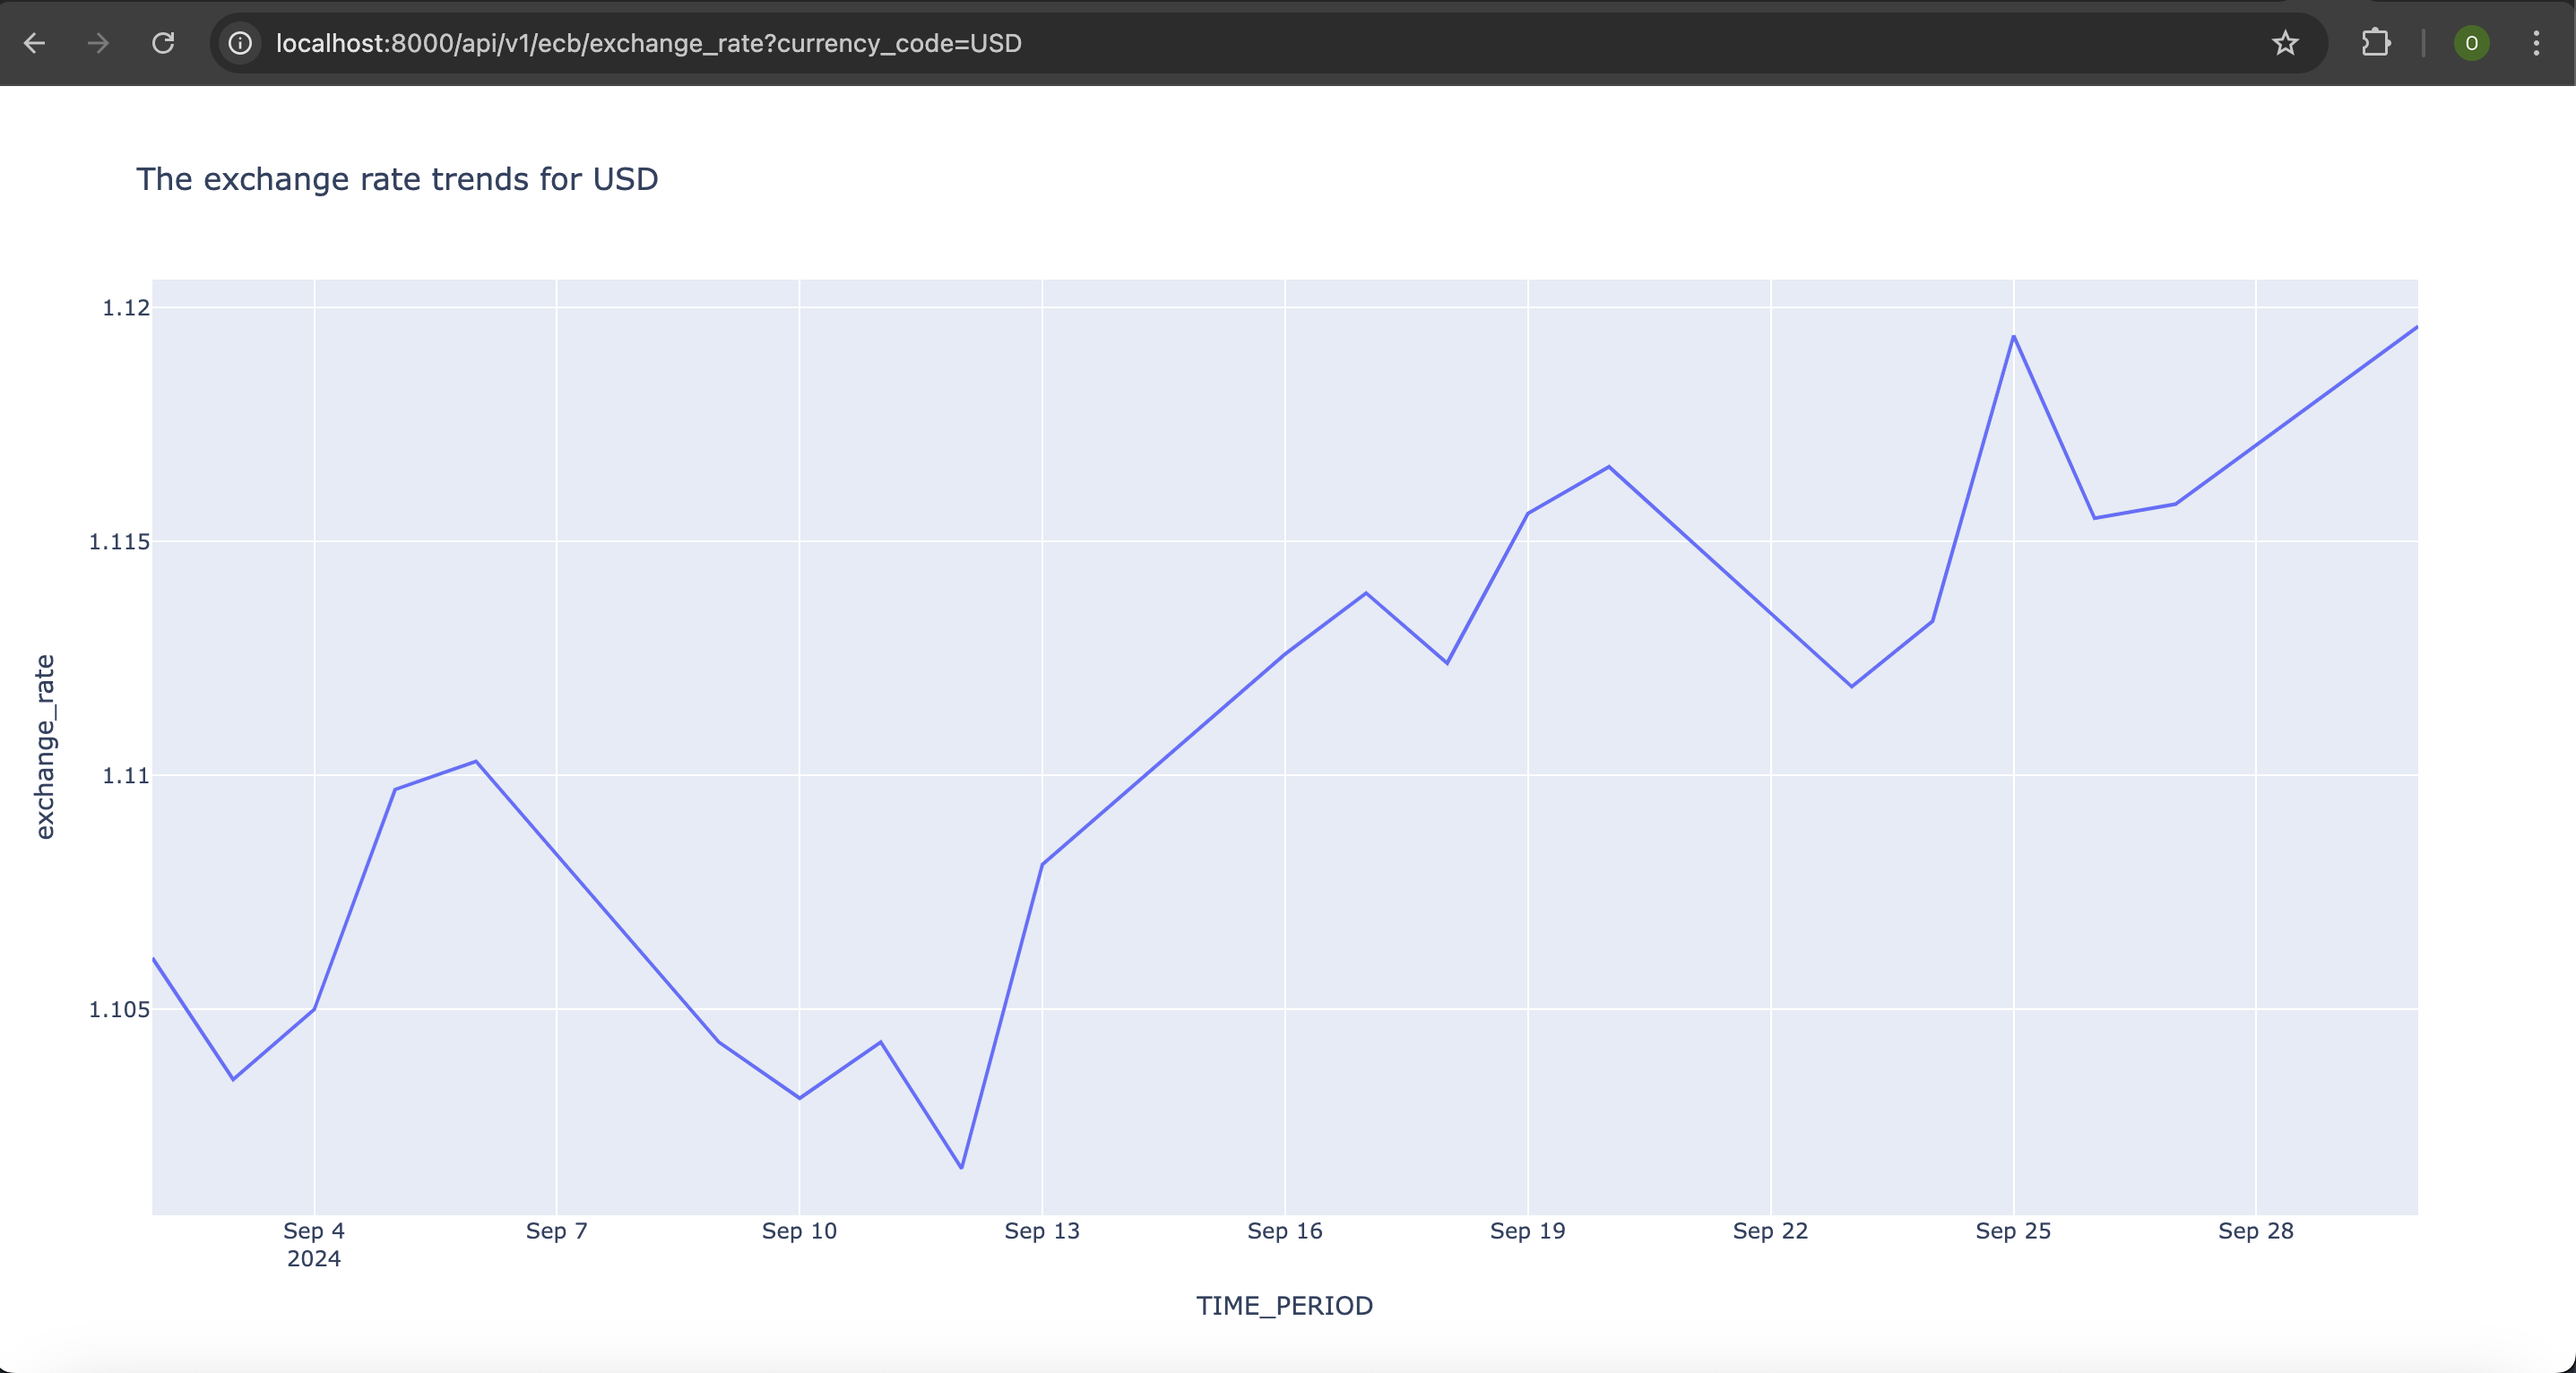
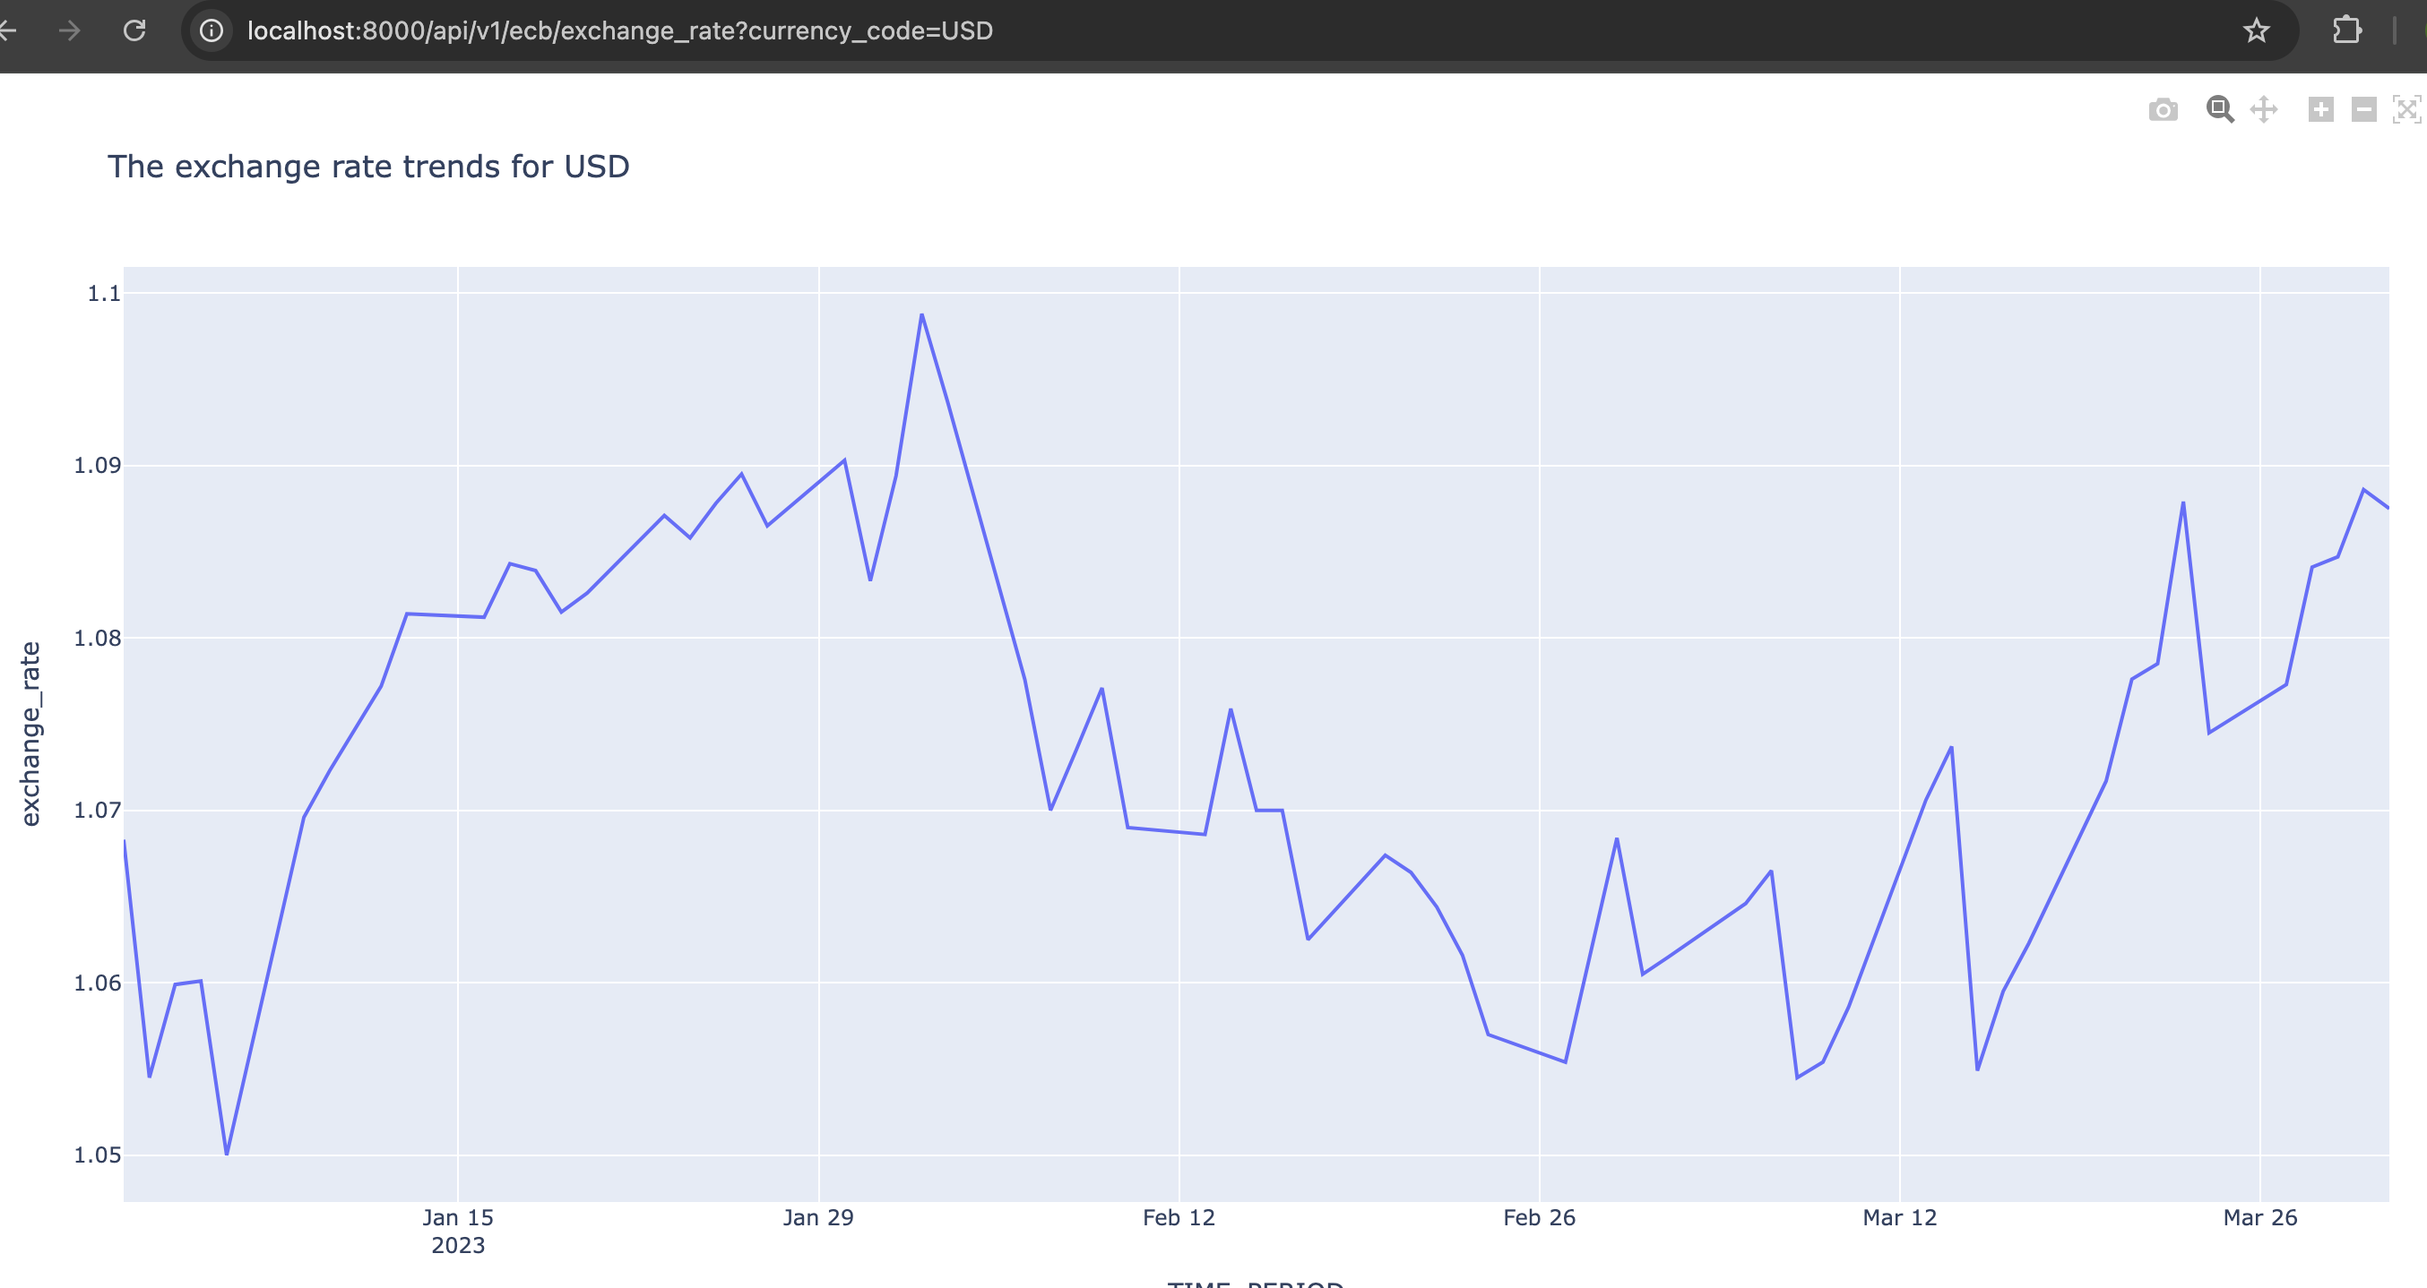
partition_date

diff --git a/ecb_pipeline/v1/ecb_api.py b/ecb_pipeline/v1/ecb_api.py
@@ -64,7 +64,7 @@ def download_daily_exchange_rate() -> str:
         startPeriod = data_date
         endPeriod = data_date
         resp = extraction_handler.ecb_exchange_api(startPeriod, endPeriod)
-        extraction_handler.download_file(resp)
+        extraction_handler.download_file(resp, partition_date)
         return "OK"
     except Exception as e:
         return f"Error: {str(e)}"
@@ -187,8 +187,8 @@ def get_exchange_rate_trends(
             CURRENCY,
             exchange_rate
         FROM {read_prepared_sql()}
-        ORDER BY TIME_PERIOD
-        ;
+        WHERE TIME_PERIOD < '2023-05-01'
+        ORDER BY TIME_PERIOD;
         """
         ).to_df()
 
